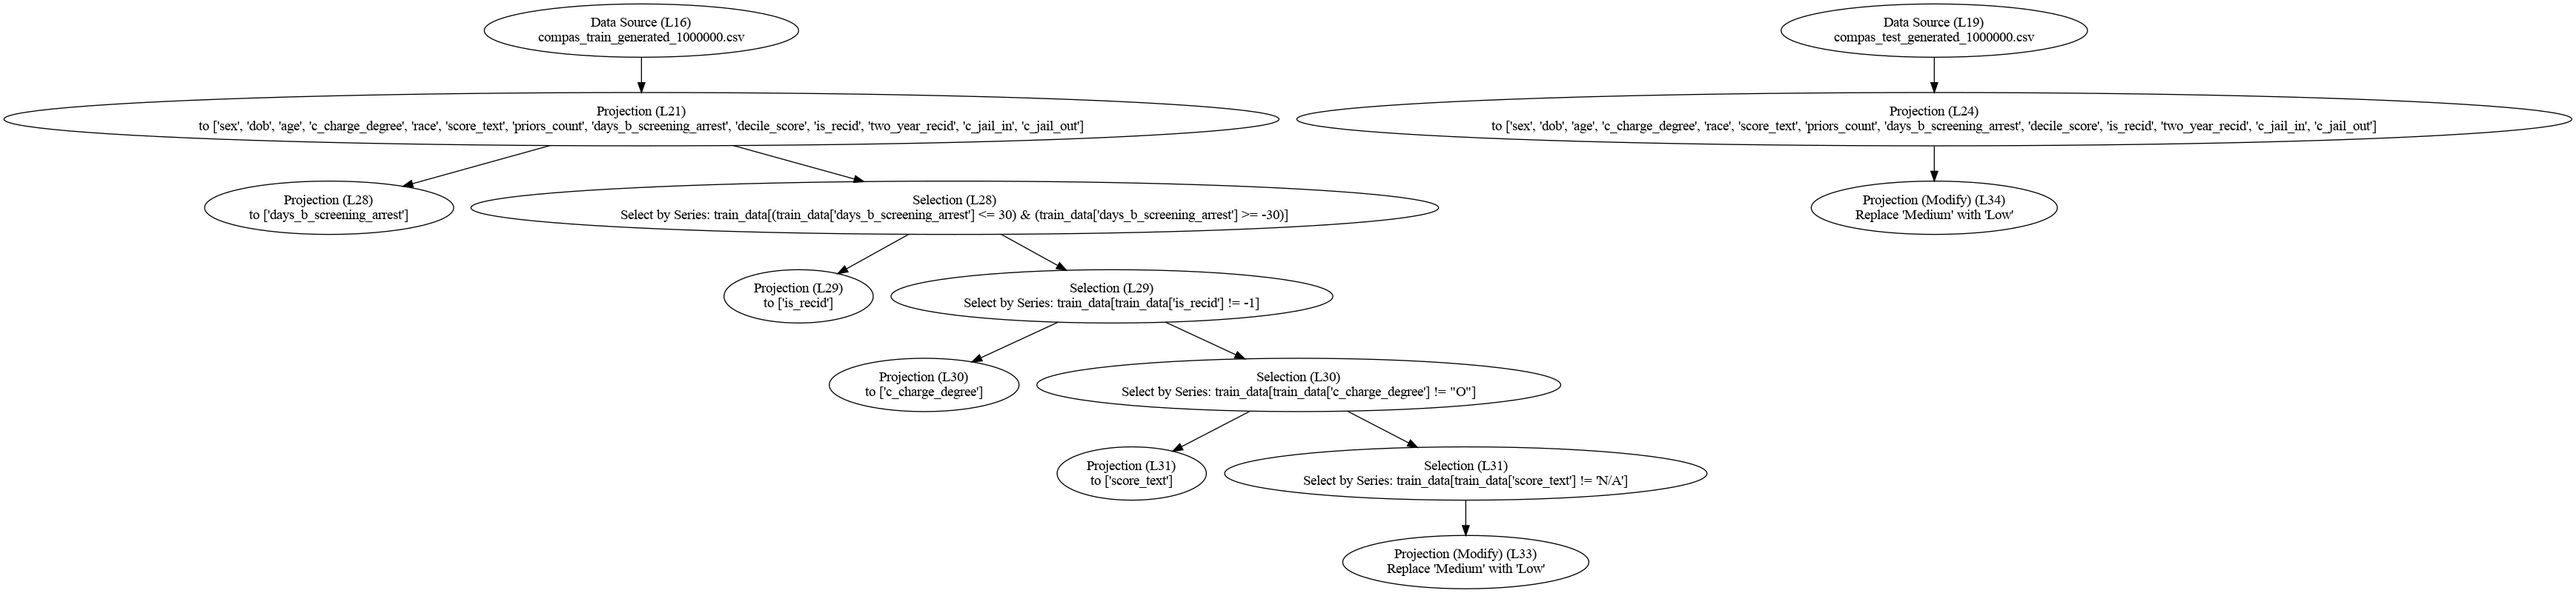
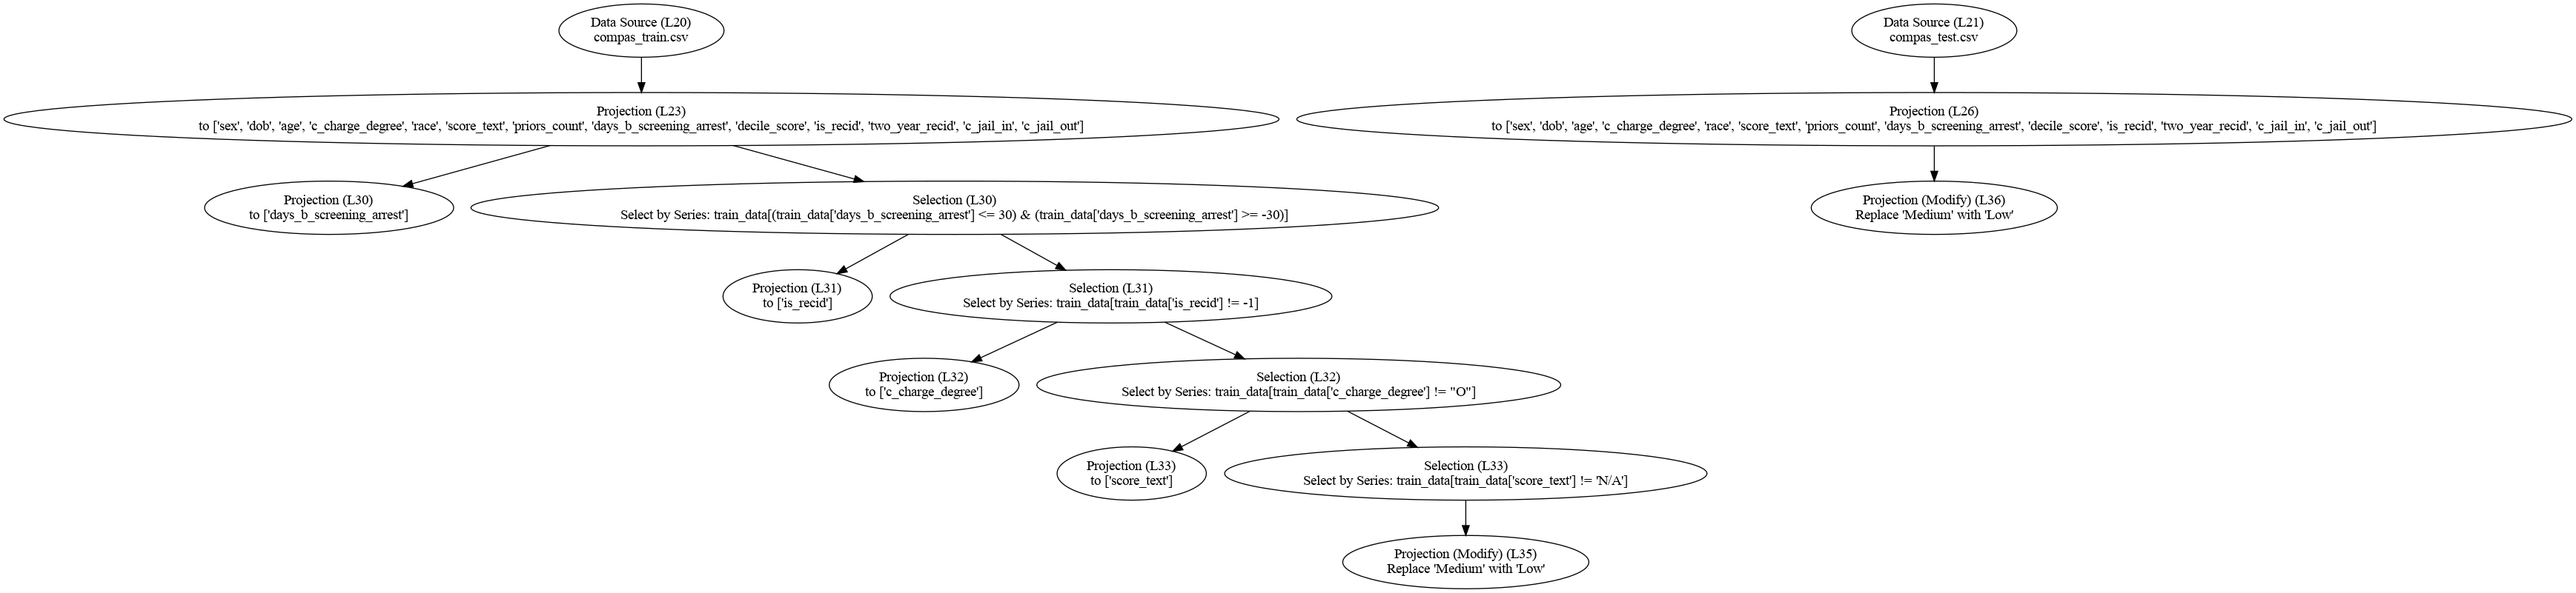
support for index_col added

diff --git a/mlinspect/to_sql/dbms_connectors/umbra_connector.py b/mlinspect/to_sql/dbms_connectors/umbra_connector.py
@@ -63,7 +63,7 @@ class UmbraConnector(Connector):
     def run(self, sql_query):
         results = []
         for q in super()._prepare_query(sql_query):
-            # print(q)
+            print(q)
             self.cur.execute(q)
             try:
                 results.append(self.cur.fetchall())
@@ -105,23 +105,27 @@ class UmbraConnector(Connector):
         """ See parent. """
         # create the index column:
         try:
+            index_col = False
             if self.add_mlinspect_serial:
-                _, path_to_tmp = tempfile.mkstemp(prefix=table_name, suffix=".csv")
+                if "index_col" in kwargs:
+                    index_col = kwargs["index_col"]  # This will be used as serial
+                else:
+                    _, path_to_tmp = tempfile.mkstemp(prefix=table_name, suffix=".csv")
 
-                with open(path_to_csv, 'r') as csvinput:
-                    with open(path_to_tmp, 'w') as csvoutput:
-                        writer = csv.writer(csvoutput)
-                        csv_reader = csv.reader(csvinput)
-                        if header:
-                            writer.writerow(next(csv_reader) + ["index_mlinspect"])
-                        for i, row in enumerate(csv_reader):
-                            writer.writerow(row + [str(i)])
-                path_to_csv = path_to_tmp
+                    with open(path_to_csv, 'r') as csvinput:
+                        with open(path_to_tmp, 'w') as csvoutput:
+                            writer = csv.writer(csvoutput)
+                            csv_reader = csv.reader(csvinput)
+                            if header:
+                                writer.writerow(next(csv_reader) + ["index_mlinspect"])
+                            for i, row in enumerate(csv_reader):
+                                writer.writerow(row + [str(i)])
+                    path_to_csv = path_to_tmp
             col_names, sql_code = CreateTablesFromDataSource.get_sql_code_csv(path_to_csv, table_name=table_name,
                                                                               null_symbols=null_symbols,
                                                                               delimiter=delimiter,
                                                                               header=header,
-                                                                              add_mlinspect_serial=False)
+                                                                              add_mlinspect_serial=index_col)
             self.run(sql_code)
 
             if self.add_mlinspect_serial:

diff --git a/example_pipelines/test.py b/example_pipelines/test.py
@@ -72,20 +72,20 @@ def run_inspection(file_location, bias, to_sql, sql_one_run=False, dbms_connecto
 
 
 def run_for_all(file_location, bias, one_pass=False, mode="", materialize=None):
-    # t0 = time.time()
-    # run_inspection(to_sql=False)
-    # t1 = time.time()
-    # print("\nTime spend with original: " + str(t1 - t0))
+    t0 = time.time()
+    run_inspection(file_location=file_location, bias=bias,  to_sql=False)
+    t1 = time.time()
+    print("\nTime spend with original: " + str(t1 - t0))
 
     t0 = time.time()
     run_inspection(file_location=file_location, bias=bias, to_sql=True, dbms_connector=dbms_connector_u, sql_one_run=one_pass, mode=mode, materialize=materialize)
     t1 = time.time()
     print("\nTime spend with modified SQL inspections: " + str(t1 - t0))
 
-    # t0 = time.time()
-    # run_inspection(file_location=file_location, bias=bias, to_sql=True, dbms_connector=dbms_connector_p, sql_one_run=one_pass, mode=mode, materialize=materialize)
-    # t1 = time.time()
-    # print("\nTime spend with modified SQL inspections: " + str(t1 - t0))
+    t0 = time.time()
+    run_inspection(file_location=file_location, bias=bias, to_sql=True, dbms_connector=dbms_connector_p, sql_one_run=one_pass, mode=mode, materialize=materialize)
+    t1 = time.time()
+    print("\nTime spend with modified SQL inspections: " + str(t1 - t0))
 
 umbra_path = r"/home/luca/Documents/Bachelorarbeit/umbra-students"
 dbms_connector_u = UmbraConnector(dbname="", user="postgres", password=" ", port=5433, host="/tmp/",

diff --git a/mlinspect/monkeypatchingSQL/_patch_to_sql.py b/mlinspect/monkeypatchingSQL/_patch_to_sql.py
@@ -66,6 +66,7 @@ class PandasPatchingSQL:
             na_values = ["?"]
             header = 1
             path_to_csv = ""
+            index_col = None
 
             # Check relevant kwargs:
             if "filepath_or_buffer" in kwargs:  # could be: str, (path object or file-like object)
@@ -79,6 +80,8 @@ class PandasPatchingSQL:
                 header = kwargs["header"]
                 if not isinstance(header, int):
                     raise NotImplementedError
+            elif "index_col" in kwargs:
+                index_col = kwargs["index_col"]
 
             # Check args that weren't set by kwargs:
             if path_to_csv == "" and len(args) >= 1:  # Just evaluate the first arg to get the csv.
@@ -96,7 +99,7 @@ class PandasPatchingSQL:
 
             col_names, sql_code = singleton.dbms_connector.add_csv(path_to_csv, table_name, null_symbols=na_values,
                                                                    delimiter=sep, header=(header == 1),
-                                                                   add_mlinspect_serial=True)
+                                                                   add_mlinspect_serial=True, index_col=index_col)
 
             # print(sql_code + "\n")
             singleton.pipeline_container.write_to_init_file(sql_code)

diff --git a/example_pipelines/compas/compas.py b/example_pipelines/compas/compas.py
@@ -12,10 +12,12 @@ from sklearn.preprocessing import OneHotEncoder, KBinsDiscretizer, label_binariz
 
 from mlinspect.utils import get_project_root
 
-train_file = os.path.join(r"/home/luca/Documents/Bachelorarbeit/mlinspect/example_to_sql/data_generation/generated_csv/compas_train_generated_1000000.csv")
-train_data = pd.read_csv(train_file, na_values='', index_col=0)
+train_file = os.path.join(str(get_project_root()), "example_pipelines", "compas", "compas_train.csv")
+test_file = os.path.join(str(get_project_root()), "example_pipelines", "compas", "compas_test.csv")
 
-test_file = os.path.join(r"/home/luca/Documents/Bachelorarbeit/mlinspect/example_to_sql/data_generation/generated_csv/compas_test_generated_1000000.csv")
+# train_file = os.path.join(r"/home/luca/Documents/Bachelorarbeit/mlinspect/example_to_sql/data_generation/generated_csv/compas_train_generated_1000000.csv")
+# test_file = os.path.join(r"/home/luca/Documents/Bachelorarbeit/mlinspect/example_to_sql/data_generation/generated_csv/compas_test_generated_1000000.csv")
+train_data = pd.read_csv(train_file, na_values='', index_col=0)
 test_data = pd.read_csv(test_file, na_values='', index_col=0)
 
 train_data = train_data[

diff --git a/mlinspect/to_sql/data_source_sql_handling.py b/mlinspect/to_sql/data_source_sql_handling.py
@@ -47,13 +47,15 @@ class CreateTablesFromDataSource:
         names, data_types = CreateTablesFromDataSource._get_schema_from_data_frame(data_frame)
 
         drop_old_table = f"DROP TABLE IF EXISTS {table_name};"
+        if isinstance(add_mlinspect_serial, int):
+            names[add_mlinspect_serial] = "\"index_mlinspect\""
 
         create_table = f"CREATE TABLE {table_name} (\n\t" + ",\n\t".join(
             [i + " " + j for i, j in zip(names, data_types)])
-        if add_mlinspect_serial:
-            create_table += ",\n\tindex_mlinspect SERIAL PRIMARY KEY\n)"
-        else:
-            create_table += "\n)"
+
+        if isinstance(add_mlinspect_serial, bool) and add_mlinspect_serial:
+            create_table += ",\n\tindex_mlinspect SERIAL PRIMARY KEY"
+        create_table += "\n)"
 
         return names, drop_old_table, create_table
 
